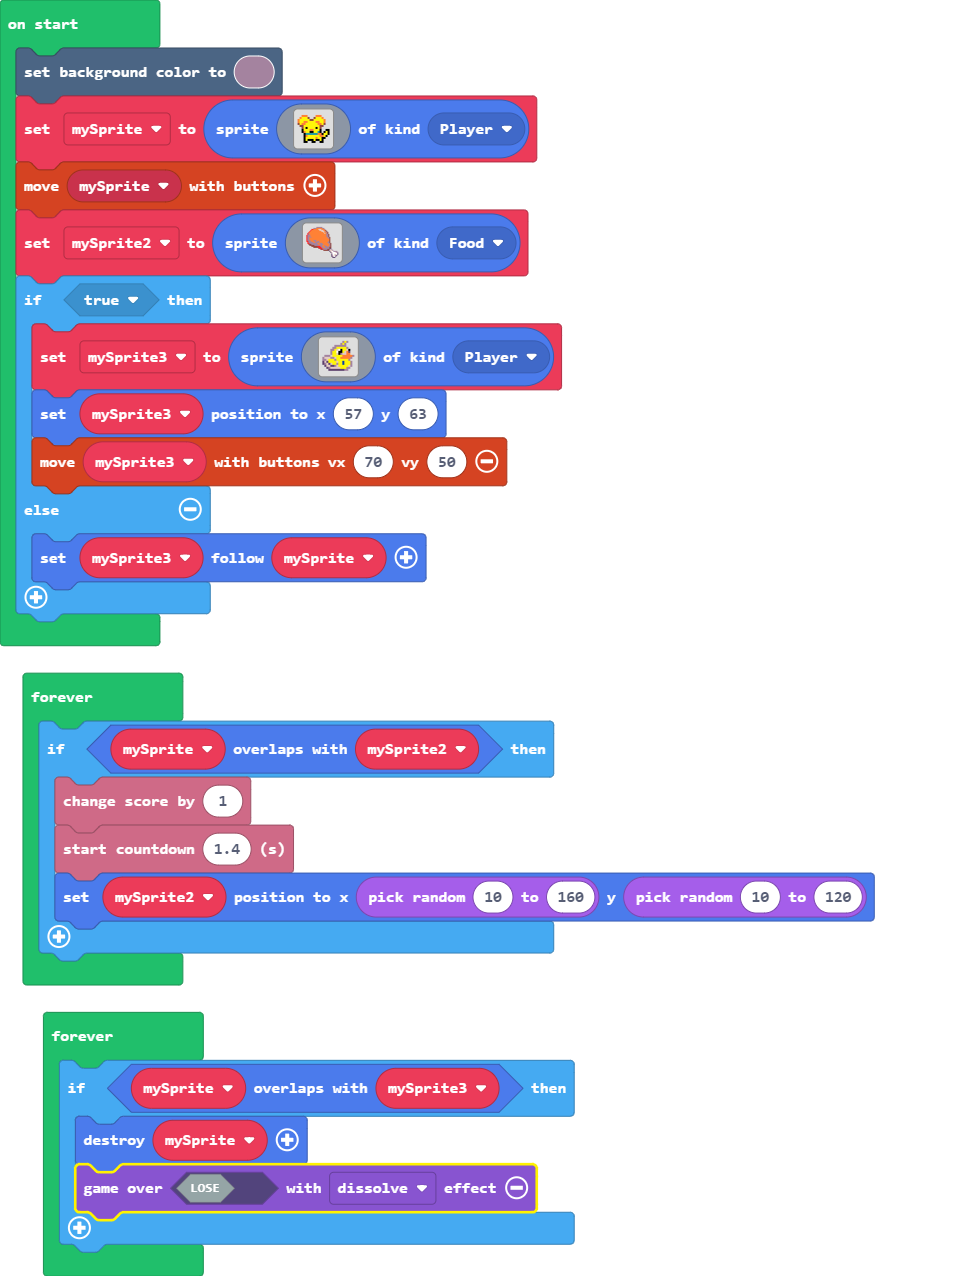
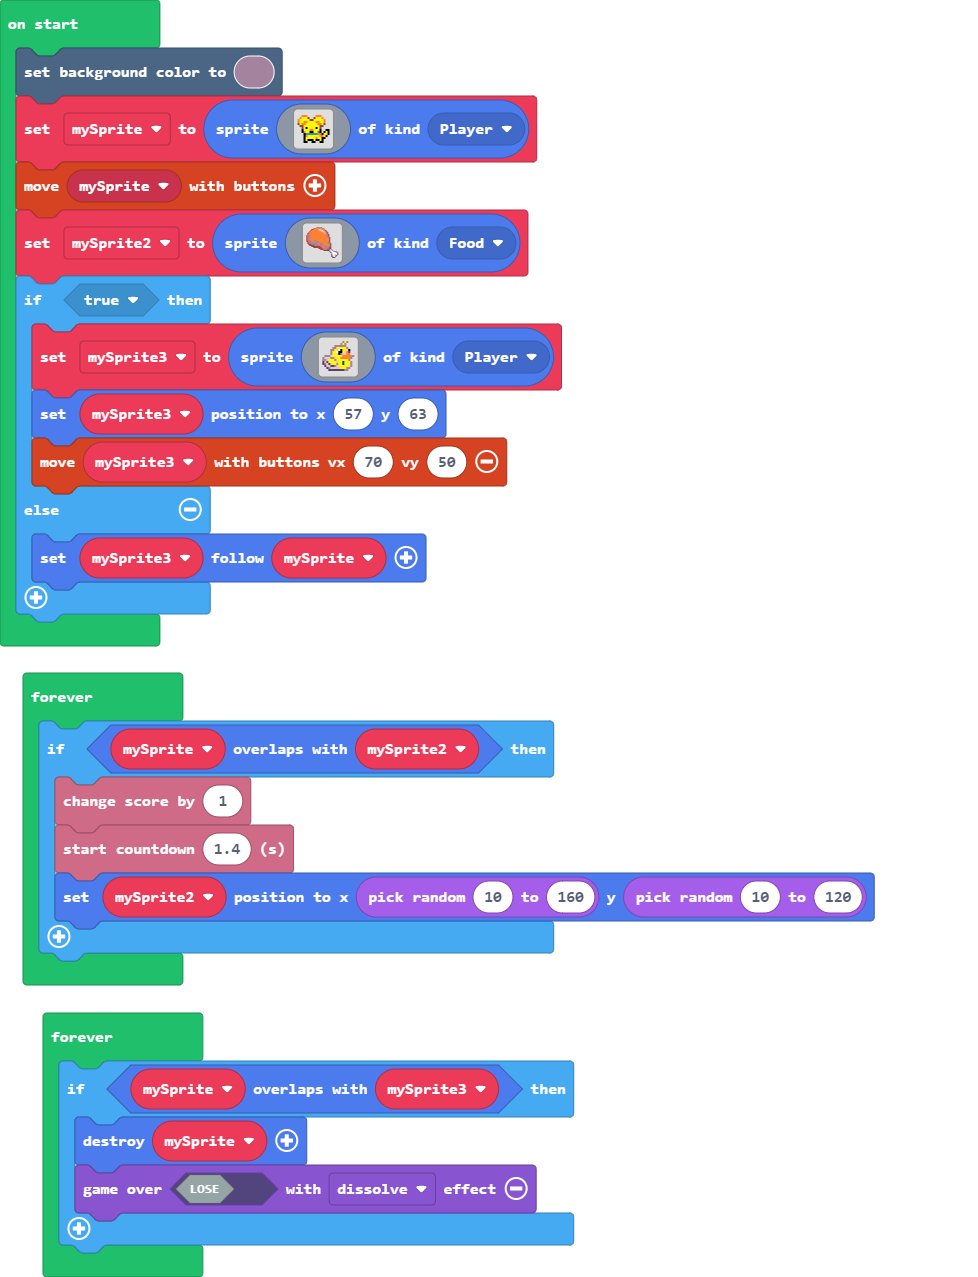
Update pxt.json, main.blocks, main.py

diff --git a/main.py b/main.py
@@ -1,10 +1,4 @@
-def on_on_overlap(sprite, otherSprite):
-    info.change_score_by(1)
-    info.start_countdown(1.4)
-    mySprite2.set_position(randint(10, 160), randint(10, 120))
-sprites.on_overlap(SpriteKind.player, SpriteKind.food, on_on_overlap)
-
-mySprite2: Sprite = None
+mySprite3: Sprite = None
 scene.set_background_color(11)
 mySprite = sprites.create(img("""
         . . 4 4 4 . . . . 4 4 4 . . . . 
@@ -59,3 +53,40 @@ mySprite2 = sprites.create(img("""
             ................................
     """),
     SpriteKind.food)
+if True:
+    mySprite3 = sprites.create(img("""
+            . . . . . . . . . . b 5 b . . . 
+                    . . . . . . . . . b 5 b . . . . 
+                    . . . . . . b b b b b b . . . . 
+                    . . . . . b b 5 5 5 5 5 b . . . 
+                    . . . . b b 5 d 1 f 5 5 d f . . 
+                    . . . . b 5 5 1 f f 5 d 4 c . . 
+                    . . . . b 5 5 d f b d d 4 4 . . 
+                    . b b b d 5 5 5 5 5 4 4 4 4 4 b 
+                    b d d d b b d 5 5 4 4 4 4 4 b . 
+                    b b d 5 5 5 b 5 5 5 5 5 5 b . . 
+                    c d c 5 5 5 5 d 5 5 8 5 5 5 b . 
+                    c b d c d 5 5 b 5 5 8 5 5 5 b . 
+                    . c d d c c b d 5 5 5 5 5 d b . 
+                    . . c b d d d d d 5 5 5 b b . . 
+                    . . . c c c c c c c c b b . . . 
+                    . . . . . . . . . . . . . . . .
+        """),
+        SpriteKind.player)
+    mySprite3.set_position(57, 63)
+    controller.move_sprite(mySprite3, 70, 50)
+else:
+    mySprite3.follow(mySprite)
+
+def on_forever():
+    if mySprite.overlaps_with(mySprite2):
+        info.change_score_by(1)
+        info.start_countdown(1.4)
+        mySprite2.set_position(randint(10, 160), randint(10, 120))
+forever(on_forever)
+
+def on_forever2():
+    if mySprite.overlaps_with(mySprite3):
+        mySprite.destroy()
+        game.over(False, effects.dissolve)
+forever(on_forever2)
